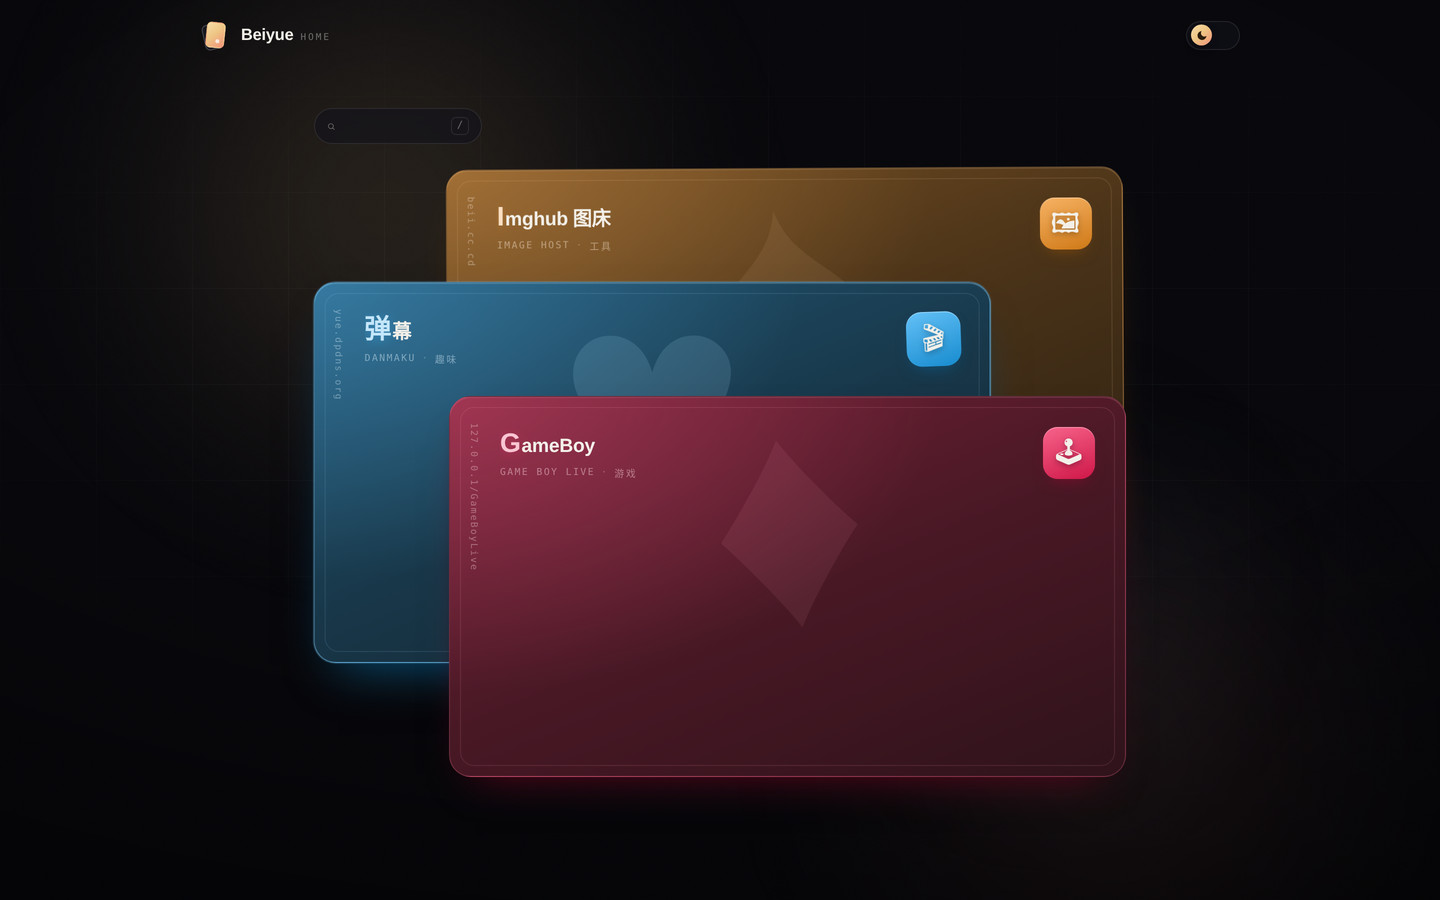
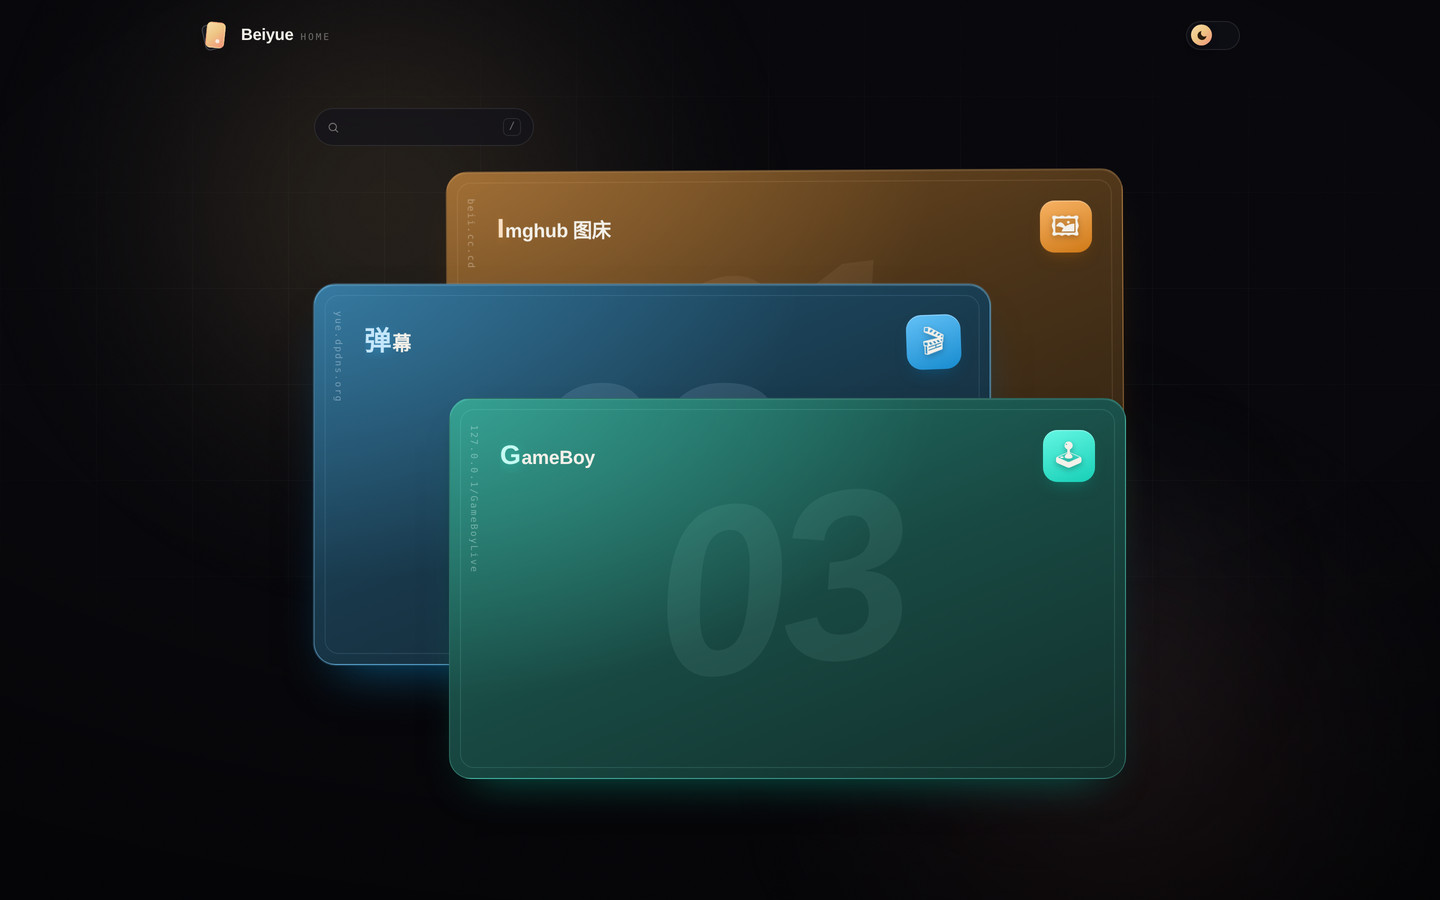
feat: numbers back, drop meta line, teal gameboy, wider search

diff --git a/src/styles/card.css b/src/styles/card.css
@@ -101,46 +101,44 @@
   transition: border-color 380ms var(--ease-out);
 }
 
-/* 牌心的大号花色：像扑克牌正中的那枚图案，居中铺满 */
-.card__motif {
+/* 牌心的编号：像扑克牌正中的那枚图案，居中铺满 */
+.card__series {
   position: absolute;
   inset: 0;
   display: grid;
   place-items: center;
-  font-size: clamp(180px, 26vw, 310px);
-  font-weight: 400;
+  font-family: var(--font-sans);
+  font-size: clamp(140px, 20vw, 240px);
+  font-weight: 700;
+  font-style: italic;
   line-height: 1;
-  color: hsl(var(--hue) 95% 82% / 0.085);
+  letter-spacing: -0.04em;
+  color: hsl(var(--hue) 92% 86% / 0.075);
   pointer-events: none;
   user-select: none;
-  /* 字形的视觉重心比行盒低，按字号往上提一点才真正居中 */
-  transform: translateY(-0.22em) rotate(-8deg);
-  transition: color 380ms var(--ease-out), transform 520ms var(--ease-spring);
+  /* 斜体的字形重心偏右下，往反方向补一点才真正居中 */
+  transform: translate(-0.04em, -0.02em) rotate(-7deg);
+  transition: color 420ms var(--ease-out), transform 620ms var(--ease-spring);
 }
-:root[data-theme='light'] .card__motif {
-  color: hsl(var(--hue) 70% 45% / 0.1);
+:root[data-theme='light'] .card__series {
+  color: hsl(var(--hue) 62% 34% / 0.09);
 }
 
-/* 信息区横贯牌顶：名称靠左，图标靠右，叠放时这一整行必须看清 */
+/* 信息区横贯牌顶：名称靠左，图标靠右，叠放时这一整行必须看清。
+   高度正好等于「露出的那一条」，内容在带内垂直居中。 */
 .card__corner {
   position: absolute;
   top: 0;
   left: 0;
   z-index: 2;
   display: flex;
-  align-items: flex-start;
+  align-items: center;
   justify-content: space-between;
   gap: 14px;
   width: 100%;
+  height: 19%;
   /* 左侧让出竖排地址的车道，避免和名称撞在一起 */
-  padding: 26px 26px 20px 44px;
-}
-
-.card__text {
-  display: flex;
-  flex-direction: column;
-  gap: 5px;
-  min-width: 0;
+  padding: 0 26px 0 44px;
 }
 
 .card__name {
@@ -164,26 +162,6 @@
 :root[data-theme='light'] .card__name::first-letter {
   color: hsl(var(--hue) 72% 38%);
   text-shadow: none;
-}
-
-.card__meta {
-  display: flex;
-  align-items: center;
-  gap: 6px;
-  font-family: var(--font-mono);
-  font-size: 0.58rem;
-  letter-spacing: 0.16em;
-  text-transform: uppercase;
-  color: hsl(var(--hue) 62% 88% / 0.5);
-  white-space: nowrap;
-  overflow: hidden;
-  text-overflow: ellipsis;
-}
-:root[data-theme='light'] .card__meta {
-  color: hsl(var(--hue) 45% 40% / 0.6);
-}
-.card__dot {
-  opacity: 0.6;
 }
 
 .card__icon {
@@ -250,8 +228,9 @@
   }
 
   .card__corner {
+    height: 30%;
     gap: 16px;
-    padding: 30px 30px 24px 50px;
+    padding: 0 30px 0 50px;
   }
 
   .card__icon {
@@ -274,10 +253,6 @@
 
   .card__name::first-letter {
     font-size: 1.4em;
-  }
-
-  .card__meta {
-    font-size: 0.6rem;
   }
 
   .card__spine {
@@ -310,9 +285,9 @@
     transform: scale(1.05) rotate(-2deg);
   }
 
-  .card:hover .card__motif {
-    color: hsl(var(--hue) 95% 84% / 0.14);
-    transform: translateY(-0.22em) rotate(0deg) scale(1.03);
+  .card:hover .card__series {
+    color: hsl(var(--hue) 92% 88% / 0.12);
+    transform: translate(-0.04em, -0.02em) rotate(0deg) scale(1.02);
   }
 
   :root[data-theme='light'] .card:hover .card__face {
@@ -320,8 +295,8 @@
       0 12px 22px -16px rgba(20, 20, 32, 0.22), 0 0 0 1px hsl(var(--hue) 70% 60% / 0.35),
       inset 0 1px 0 rgba(255, 255, 255, 0.85);
   }
-  :root[data-theme='light'] .card:hover .card__motif {
-    color: hsl(var(--hue) 70% 45% / 0.15);
+  :root[data-theme='light'] .card:hover .card__series {
+    color: hsl(var(--hue) 62% 34% / 0.13);
   }
 
   .card:active .card__face {
@@ -373,7 +348,7 @@
 @media (prefers-reduced-motion: reduce) {
   .card__face,
   .card__icon,
-  .card__motif,
+  .card__series,
   .card__face::before {
     animation: none !important;
     transition: none !important;

diff --git a/src/components/DeckCard.vue b/src/components/DeckCard.vue
@@ -10,12 +10,8 @@ const props = defineProps({
 
 const iconOk = ref(true)
 
-/**
- * 牌心的花色，按顺序轮转。选字标准：BMP 内、各平台覆盖率高的符号，
- * 避开 ❋ ❈ ✹ 这类在 Windows 上会掉成豆腐块的低频字符。
- */
-const MOTIFS = ['♠', '♥', '♦', '♣', '★', '✦', '❖', '✧', '✿', '❀', '☘', '☾']
-const motif = computed(() => MOTIFS[props.index % MOTIFS.length])
+/** 牌心的编号：两位数字，像牌角上的点数 */
+const series = computed(() => String(props.index + 1).padStart(2, '0'))
 
 const showIcon = computed(() => Boolean(props.app.icon) && iconOk.value)
 const showEmoji = computed(() => !showIcon.value && Boolean(props.app.emoji))
@@ -55,19 +51,12 @@ const style = computed(() => {
     <span class="card__face">
       <span class="card__frame" aria-hidden="true" />
 
-      <!-- 牌心的大号花色，被上方牌压住也无所谓 -->
-      <span class="card__motif" aria-hidden="true">{{ motif }}</span>
+      <!-- 牌心的大号编号，被上方牌压住也无所谓 -->
+      <span class="card__series" aria-hidden="true">{{ series }}</span>
 
       <!-- 名称在左上、图标在右上：叠起来时唯一必须看清的一整行 -->
       <span class="card__corner">
-        <span class="card__text">
-          <span class="card__name">{{ app.name }}</span>
-          <span class="card__meta">
-            <span class="card__en">{{ app.en }}</span>
-            <span v-if="app.tag" class="card__dot" aria-hidden="true">·</span>
-            <span v-if="app.tag">{{ app.tag }}</span>
-          </span>
-        </span>
+        <span class="card__name">{{ app.name }}</span>
 
         <span class="card__icon" aria-hidden="true">
           <img

diff --git a/src/components/DeckIntro.vue b/src/components/DeckIntro.vue
@@ -64,8 +64,8 @@ defineExpose({ focus: () => input.value?.focus() })
   display: flex;
   align-items: center;
   gap: 8px;
-  width: 168px;
-  height: 36px;
+  width: 220px;
+  height: 38px;
   padding-inline: 12px;
   border-radius: var(--radius-pill);
   border: 1px solid var(--line);
@@ -133,7 +133,7 @@ defineExpose({ focus: () => input.value?.focus() })
 
 @media (max-width: 719.98px) {
   .search {
-    width: 156px;
+    width: 100%;
   }
 }
 </style>

diff --git a/src/data/site.js b/src/data/site.js
@@ -55,7 +55,9 @@ const SAMPLES = [
     tag: '游戏',
     desc: '拖一张卡带进去，就能在浏览器里玩 GB / GBC / GBA。',
     url: `${import.meta.env.BASE_URL}GameBoyLive/`,
-    emoji: '🕹'
+    emoji: '🕹',
+    /* 与参考站 GameBoy 那张牌一致：青绿 */
+    hue: 172
   }
 ]
 

diff --git a/README.md b/README.md
@@ -6,7 +6,7 @@ Vue 3 + Vite，无 UI 框架，样式手写。
 
 ## 特点
 
-- **牌堆**：纵向叠放，后一张压住前一张的下沿，每张只露名称 / 英文名 / 分类 / 图标那一行；最后一张整张露出收尾
+- **牌堆**：纵向叠放，后一张压住前一张的下沿，每张只露名称与图标那一行；最后一张整张露出，牌心是淡编号
 - **抽出**：悬停或键盘聚焦时，整张牌左移 20% 卡宽，正好填满牌堆左侧预留的车道；纵向位置不动，不会遮住上下邻居
 - **搜索**：`/` 聚焦、`Esc` 清空，按名称、英文名、分类、简介过滤
 - **响应式**：≥720px 是 16:9 横卡 + 左侧车道；窄屏是 9:16 竖卡，悬停改为轻抬
